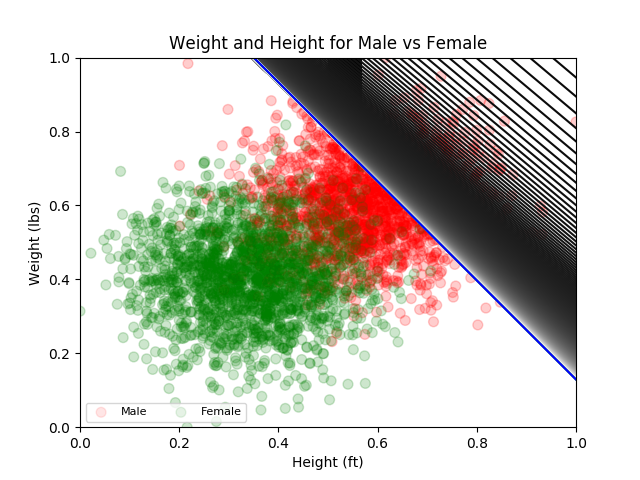
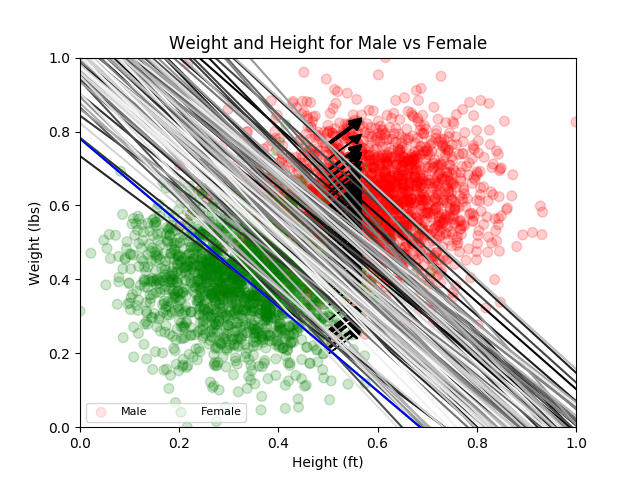
project2: cleaning up into methods, fixed incorrect bipolar activations to be unipolar instead (smoothing out errors)

diff --git a/project1/project2.py b/project1/project2.py
@@ -62,16 +62,16 @@ def normalize_data_frame(dataframe):
     return ndf
 
 
-def calculate_weight_after_delta_d(current_weight, current_pattern, alpha=alpha):
+def calculate_weight_after_delta_d(current_weight, current_pattern, hard_activation=True, alpha=alpha, k=0.5):
     net = (current_weight[0] * current_pattern[0] +
            current_weight[1] * current_pattern[1] +
            current_weight[2])
 
-    if False:
-        output = 1 if net > 0 else -1
+    if hard_activation:
+        output = 1 if net > 0 else 0
         delta_d = alpha * (current_pattern[2] - output)
     else:
-        output = np.tanh(net * 0.1)
+        output = (np.tanh(net * k) + 1) / 2 # needs to be unipolar
         delta_d = alpha * (current_pattern[2] - output)
 
     current_pattern[0] *= delta_d
@@ -86,18 +86,22 @@ def calculate_weight_after_delta_d(current_weight, current_pattern, alpha=alpha)
 
 
 errors = []
+total_errors = []
 weights = [[], [], []]
 soft_outputs = []
 
 
-def main(plt):
+def render(plt, hard=True, sampleFraction=0.25):
     df = pd.read_csv(dataFileName, header=None)
+
+    folder_destination = "images/project2/"
+    folder_destination += "hard/" if hard else "soft/"
+    folder_destination += str(int(100 * sampleFraction)) + "_"
 
     df = normalize_data_frame(df)
 
     # smaller amount of random items
-    test_df = df.sample(frac=1)
-    test_df = test_df[0:100]
+    test_df = df.sample(frac=sampleFraction)
 
     plt.figure(1)
     plt = build_height_weight_plot(df)
@@ -109,33 +113,40 @@ def main(plt):
     original_sep_line = sep_line
     final_sep_line = None
 
-    n = 500
+    n = ni
 
     plt.figure(1)
     # Repeat this `n` times
     for i in range(0, n):
         print(i)
-        # For each element in the data_frame `test_df`
-        for index, row in test_df.iterrows():
-            new_weights = calculate_weight_after_delta_d(sep_line, row)
+        # if epsilon > err2:
+        #     break
 
-            sep_line[0] = new_weights[0]
-            sep_line[1] = new_weights[1]
-            sep_line[2] = new_weights[2]
+        errorMatrix2 = project1.get_confusion_matrix(df, sep_line)
+        err2 = 1 - ((errorMatrix2[1] + errorMatrix2[0]) / (df[0].count()))
+        total_errors.append(err2)
 
         plot_xy_sep_line(sep_line, df, color=str(i / n))
-        errorMatrix2 = project1.get_confusion_matrix(test_df, sep_line)
-        err = 1 - ((errorMatrix2[1] + errorMatrix2[0]) / (test_df.size / 3))
+
+        errorMatrix = project1.get_confusion_matrix(test_df, sep_line)
+        err = 1 - ((errorMatrix[1] + errorMatrix[0]) / (df[0].count()))
         errors.append(err)
 
         weights[0].append(sep_line[0])
         weights[1].append(sep_line[1])
         weights[2].append(sep_line[2])
 
-        final_sep_line = sep_line
+        # mix up the test data frame so that we learn in different ways(?)
+        test_df = test_df.sample(frac=1)
+        # For each element in the data_frame `test_df`
+        for index, row in test_df.iterrows():
+            new_weights = calculate_weight_after_delta_d(sep_line, row, hard_activation=hard)
 
-        if epsilon > err:
-            break
+            sep_line[0] = new_weights[0]
+            sep_line[1] = new_weights[1]
+            sep_line[2] = new_weights[2]
+
+        final_sep_line = sep_line
 
     plt.figure(1)
     build_height_weight_plot(df)
@@ -151,19 +162,20 @@ def main(plt):
 
     plt.figure(1)
     plt.axis((0, 1, 0, 1))
-    plt.savefig("images/p2_all_sep_lines")
+    plt.savefig(folder_destination + "p2_all_sep_lines")
     plt.gcf().clear()
     plt.figure(2)
     plt.axis((0, 1, 0, 1))
-    plt.savefig("images/p2_start_end_lines")
+    plt.savefig(folder_destination + "p2_start_end_lines")
     plt.gcf().clear()
 
     plt.figure(3)
-    plt.plot(np.arange(len(errors)), errors)
+    plt.plot(np.arange(len(errors)), errors, color="b")
+    plt.plot(np.arange(len(total_errors)), total_errors, color="gray")
     plt.title("% error over iteration")
     plt.xlabel("Iteration number")
     plt.ylabel("% Error")
-    plt.savefig("images/p2_error")
+    plt.savefig(folder_destination + "p2_error")
     plt.gcf().clear()
 
     plt.figure(4)
@@ -173,22 +185,58 @@ def main(plt):
     plt.title("Weights over iterations")
     plt.xlabel("Iteration number")
     plt.ylabel("Weights")
-    plt.savefig("images/p2_weights")
+    plt.savefig(folder_destination + "p2_weights")
     plt.gcf().clear()
 
+    # reset global values
+    errors.clear()
+    weights[0].clear()
+    weights[1].clear()
+    weights[2].clear()
+    soft_outputs.clear()
+    for i in range(1, 5):
+        plt.figure(i)
+        plt.gcf().clear()
+
+
+def build_report():
     file = open(reportFileName, "w")
     project1.save_markdown_report(file, [
         md.h1("Project 2 Report"),
         md.h2("CMSC 409 - Artificial Intelligence"),
         md.h2("Steven Hernandez"),
-        md.image("./images/p2_all_sep_lines.png"),
-        md.image("./images/p2_start_end_lines.png"),
-        md.image("./images/p2_error.png"),
     ])
+
+    for activation_type in ("hard", "soft"):
+        for sample_size in ("25", "50", "75"):
+            project1.save_markdown_report(file, [
+                md.h3(activation_type + " activation with a sample size of " + sample_size + "%"),
+                md.images([
+                    ["./images/project2/" + activation_type + "/" + sample_size + "_p2_start_end_lines.png", ""],
+                    ["./images/project2/" + activation_type + "/" + sample_size + "_p2_all_sep_lines.png", ""],
+                ]),
+                md.images([
+                    ["./images/project2/" + activation_type + "/" + sample_size + "_p2_error.png", "errors"],
+                    ["./images/project2/" + activation_type + "/" + sample_size + "_p2_weights.png", "weights"],
+                ]),
+            ])
+
     file.close()
 
-    # os.system("pandoc --latex-engine=xelatex -V geometry=margin=1in -s -o FINAL_REPORT_2.pdf report2.md")
-    # print("Report created")
+    os.system("pandoc --latex-engine=xelatex -V geometry=margin=1in -s -o FINAL_REPORT_2.pdf report2.md")
+    print("Report created")
+
+
+def main(plt):
+    render(plt, hard=True, sampleFraction=0.25)
+    render(plt, hard=True, sampleFraction=0.5)
+    render(plt, hard=True, sampleFraction=0.75)
+
+    render(plt, hard=False, sampleFraction=0.25)
+    render(plt, hard=False, sampleFraction=0.5)
+    render(plt, hard=False, sampleFraction=0.75)
+
+    build_report()
 
 
 if __name__ == "__main__":

diff --git a/project1/markdown/__init__.py b/project1/markdown/__init__.py
@@ -34,7 +34,16 @@ def code(text=None, function=None):
 
 
 def image(filename, alt_text=""):
-    return block_element("\ ![" + alt_text + "](" + filename + ")")
+    return images([filename, alt_text])
+
+
+def images(images=[]):
+    str = ""
+
+    for i in images:
+        str += "\ ![" + i[1] + "](" + i[0] + "){#id .class width=300 height=200} "
+
+    return block_element(str)
 
 
 def table(contents, header=True):
